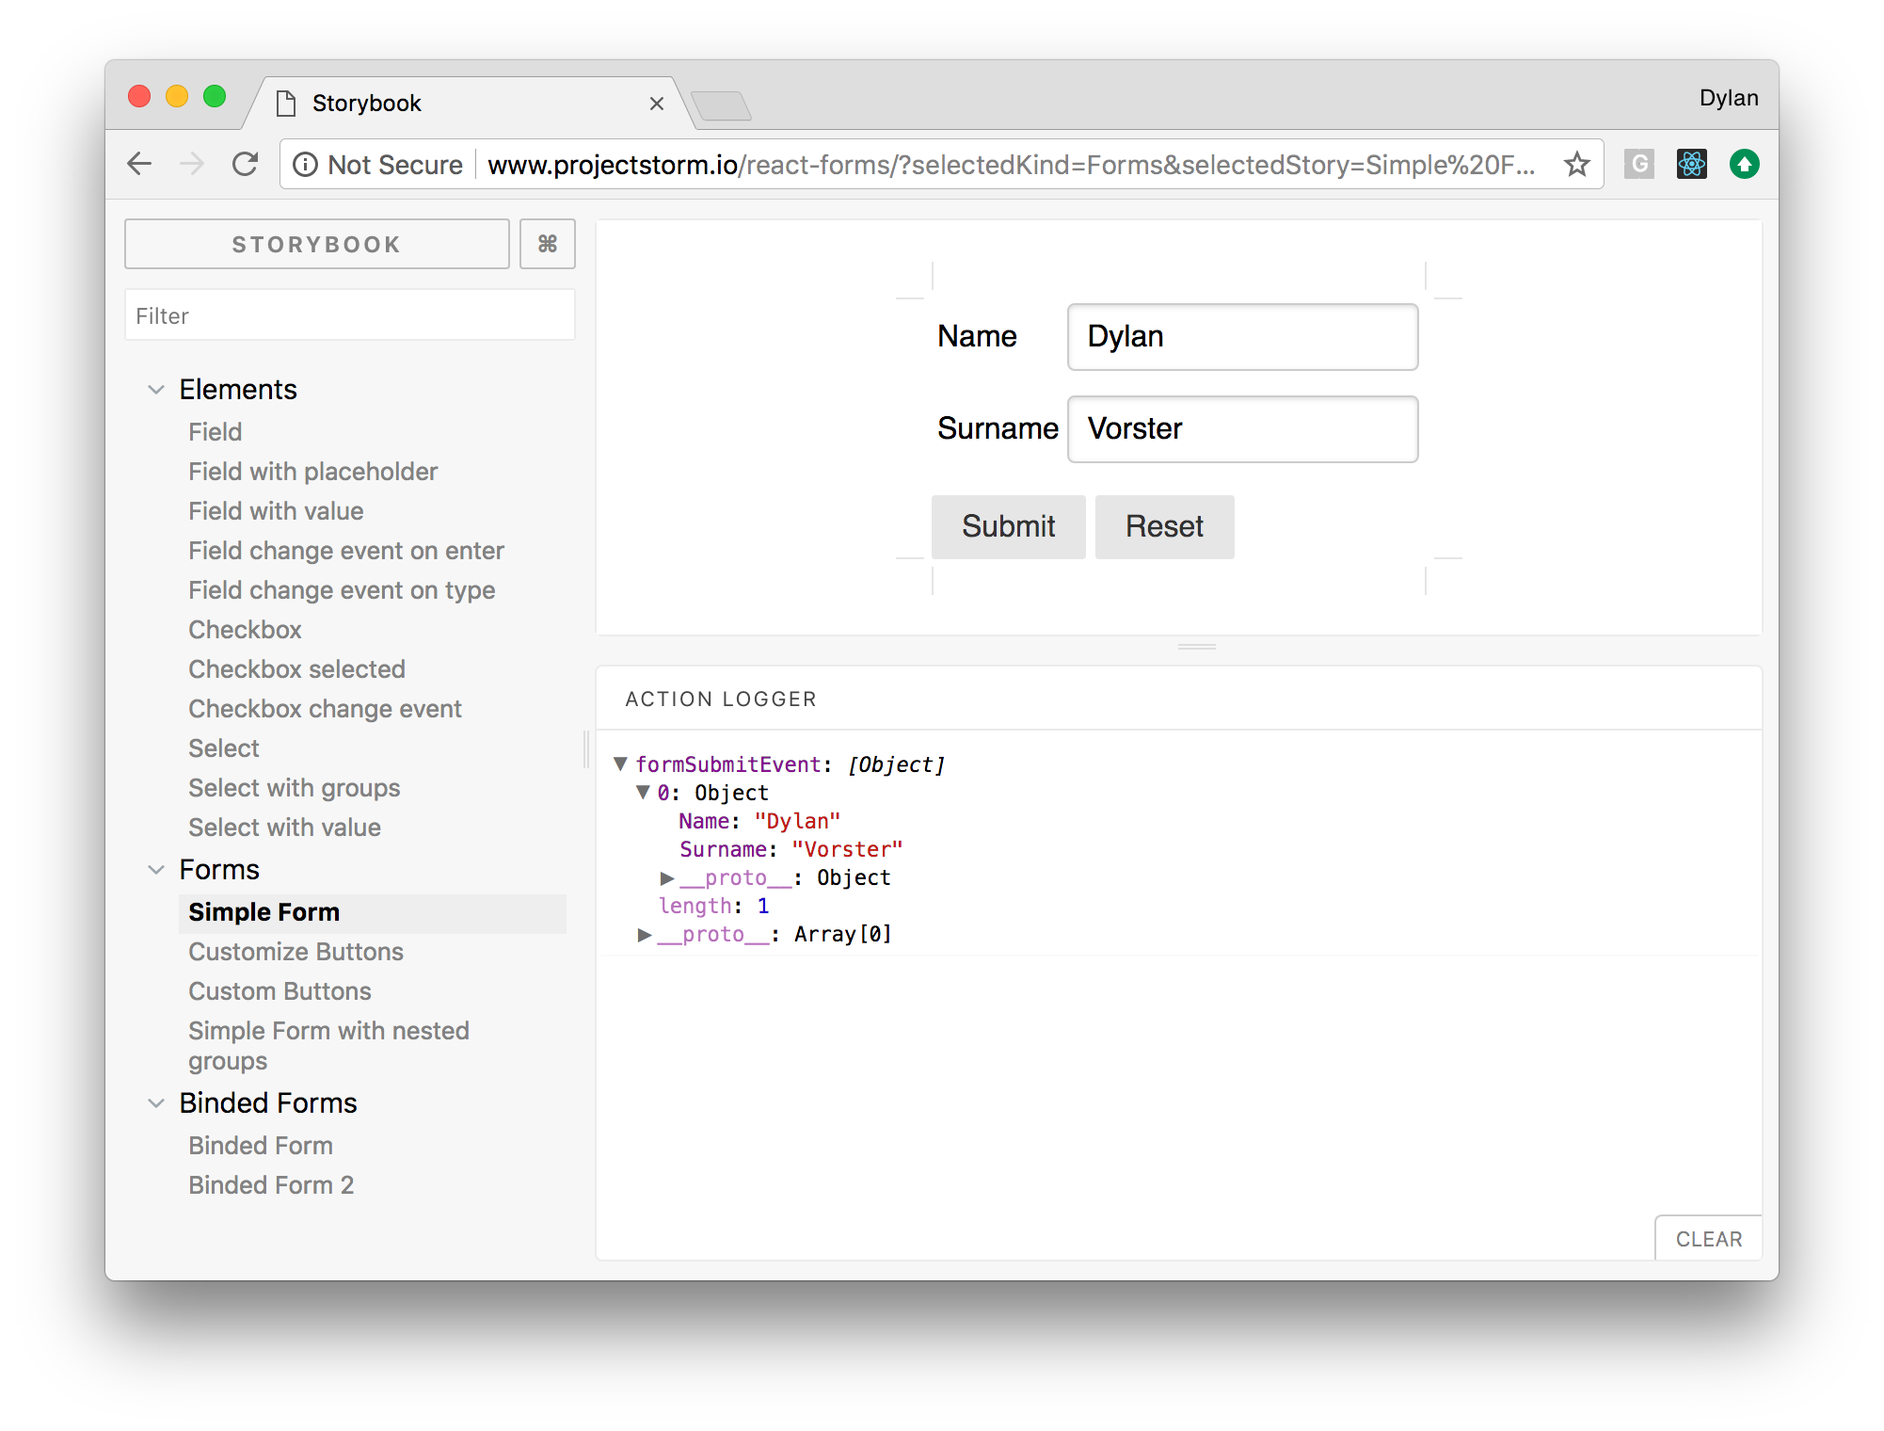
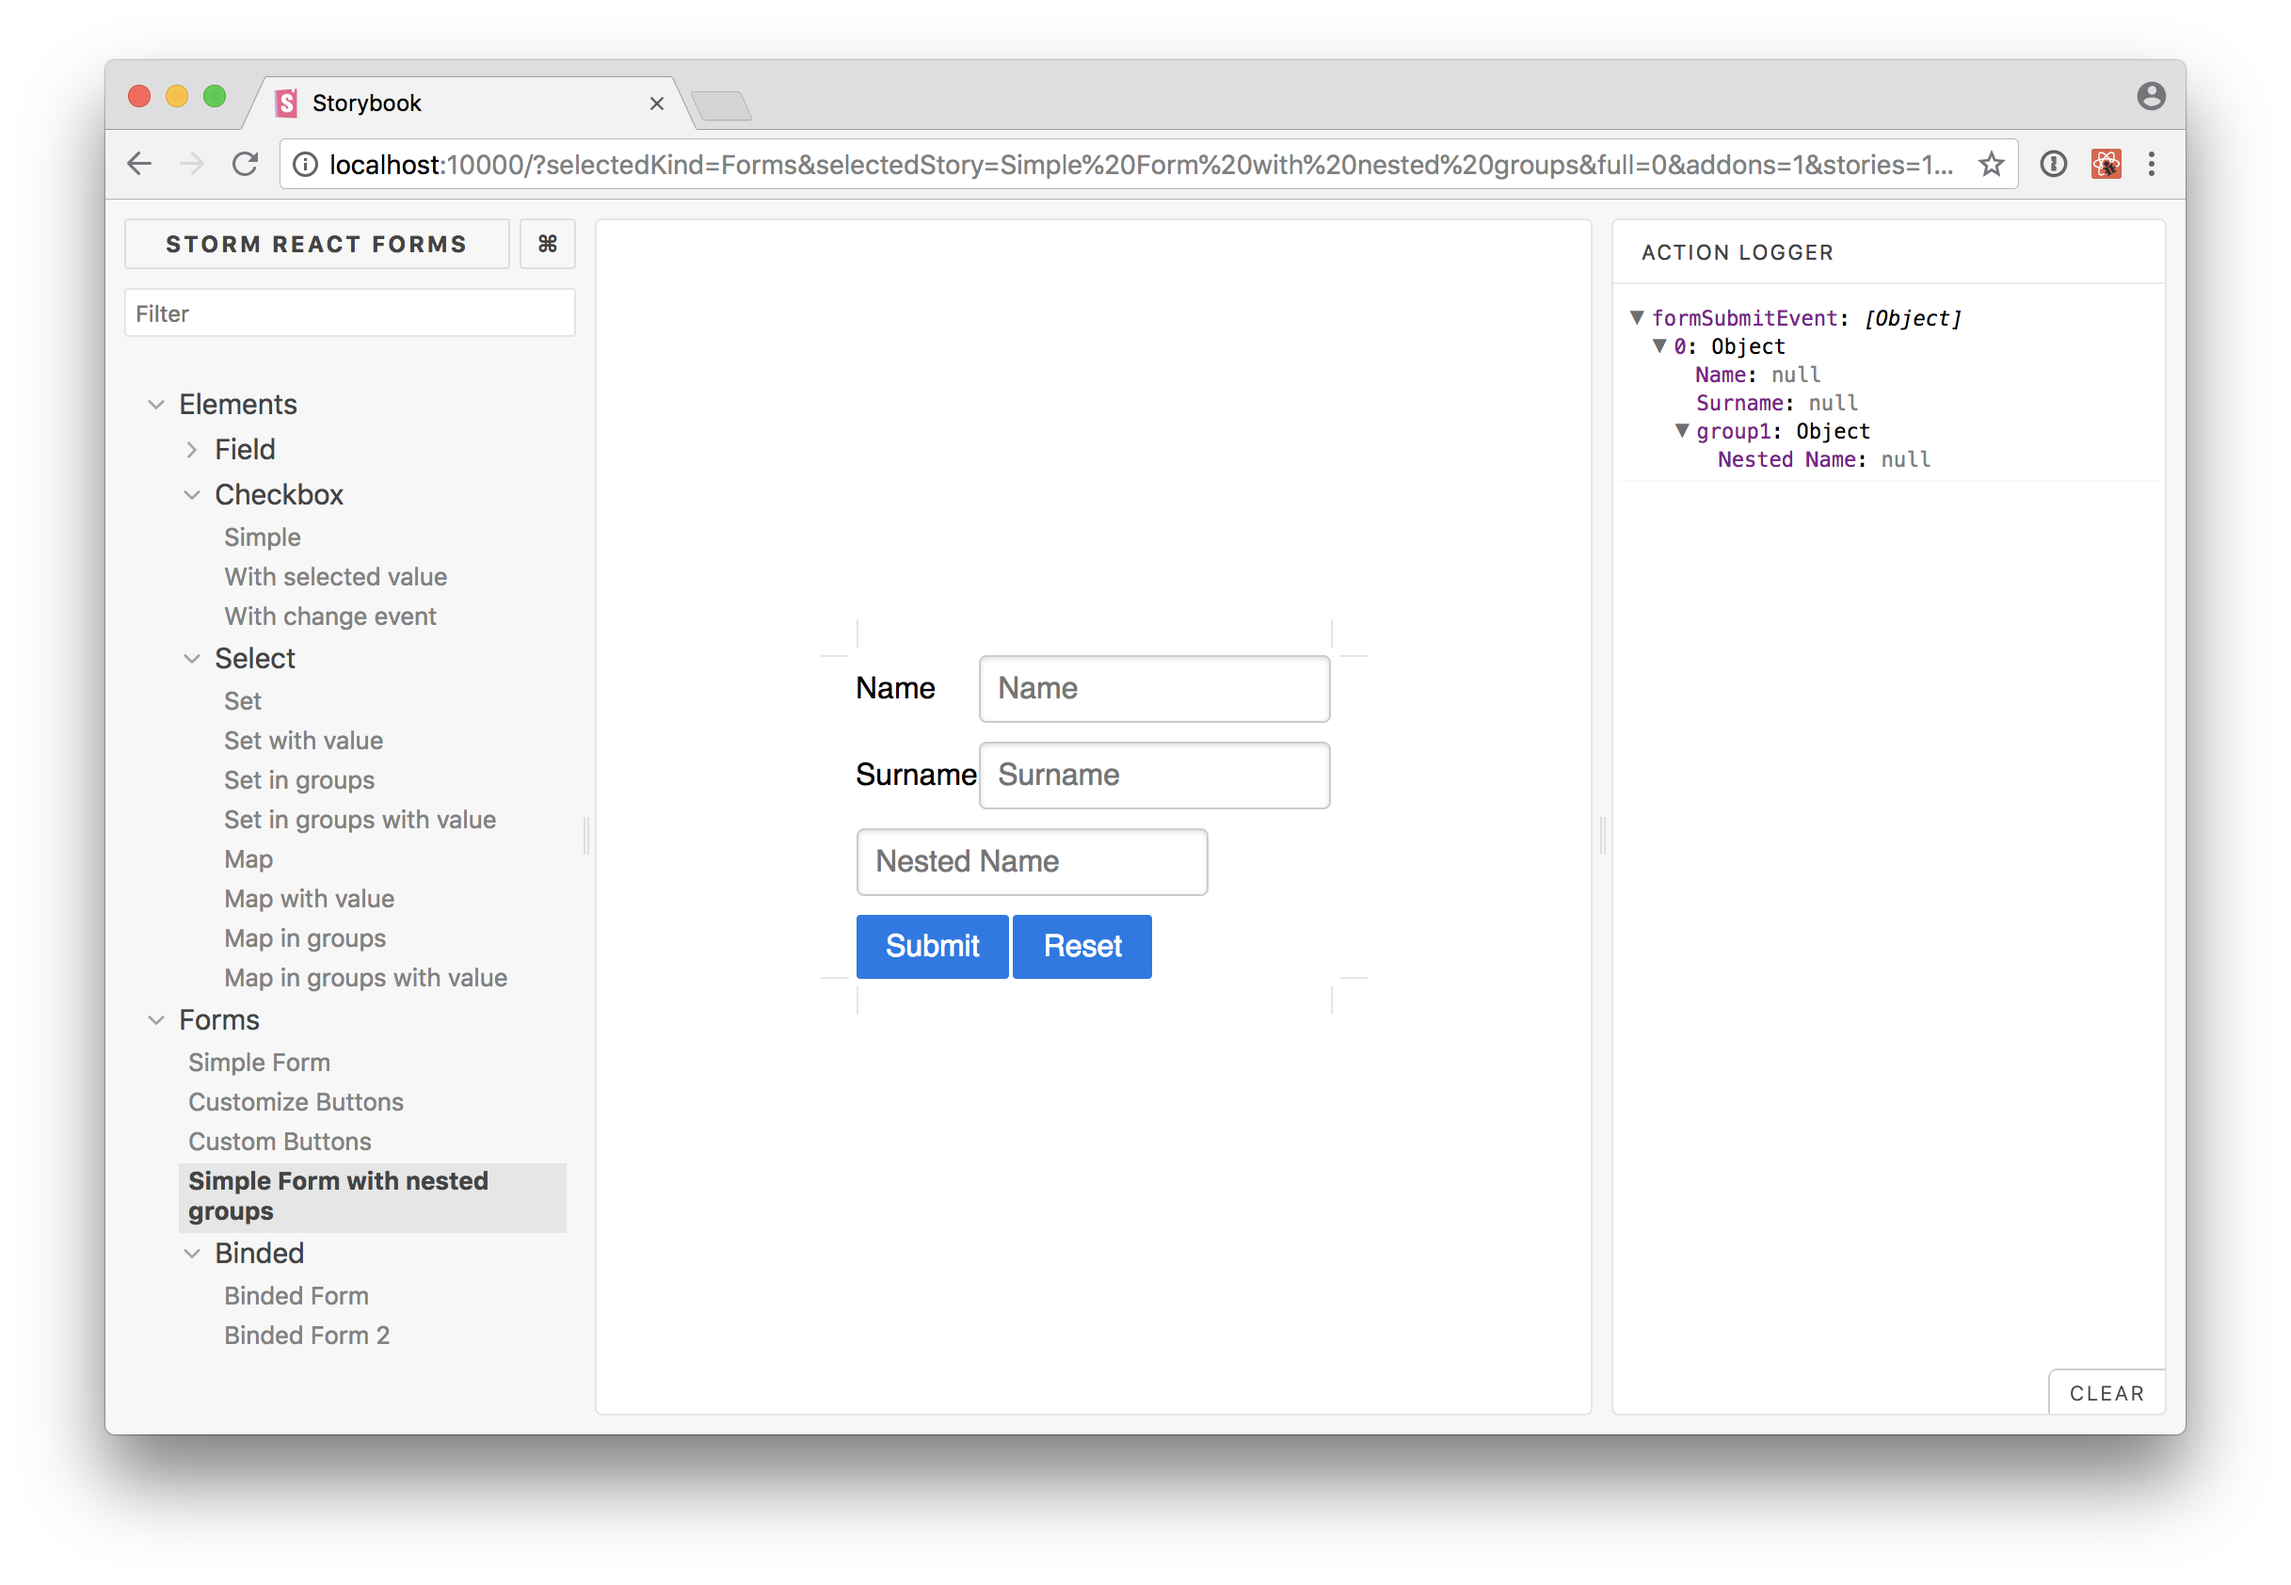
cleanup

diff --git a/webpack.config.js b/webpack.config.js
@@ -33,32 +33,7 @@ module.exports = {
 		libraryTarget: 'umd',
 		library: 'SRF'
 	},
-	externals: {
-		react: {
-			root: 'React',
-			commonjs2: 'react',
-			commonjs: 'react',
-			amd: 'react'
-		},
-		'react-dom': {
-			root: 'ReactDOM',
-			commonjs2: 'react-dom',
-			commonjs: 'react-dom',
-			amd: 'react-dom'
-		},
-		"lodash": {
-			commonjs: 'lodash',
-			commonjs2: 'lodash',
-			amd: '_',
-			root: '_'
-		},
-		"prop-types":{
-			commonjs:'prop-types',
-			commonjs2:'prop-types',
-			amd: 'PropTypes',
-			root: 'PropTypes'
-		}
-	},
+	externals: ,
 	plugins:plugins,
 	module: {
 		rules: [
@@ -79,4 +54,4 @@ module.exports = {
 		extensions: [".tsx", ".ts", ".js"]
 	},
 	devtool: process.env.NODE_ENV === 'production'?false:'cheap-module-source-map'
-}
+};

diff --git a/demos/index.tsx b/demos/index.tsx
@@ -2,6 +2,7 @@ import * as React from "react";
 import { storiesOf } from "@storybook/react";
 import { action } from "@storybook/addon-actions";
 import { host } from "storybook-host";
+import { setOptions } from "@storybook/addon-options";
 import {
 	FormWidget,
 	TableLayoutWidget,
@@ -13,6 +14,12 @@ import {
 import { CustomFormWidget } from "./CustomFormWidget";
 
 import "./test.scss";
+
+setOptions({
+	name: "STORM React Forms",
+	url: "https://github.com/projectstorm/react-forms",
+	addonPanelInRight: true
+});
 
 storiesOf("Elements/Field", module)
 	.addDecorator(story => (

diff --git a/.storybook/addons.js b/.storybook/addons.js
@@ -1,1 +1,2 @@
 import '@storybook/addon-actions/register';
+import '@storybook/addon-options/register';
